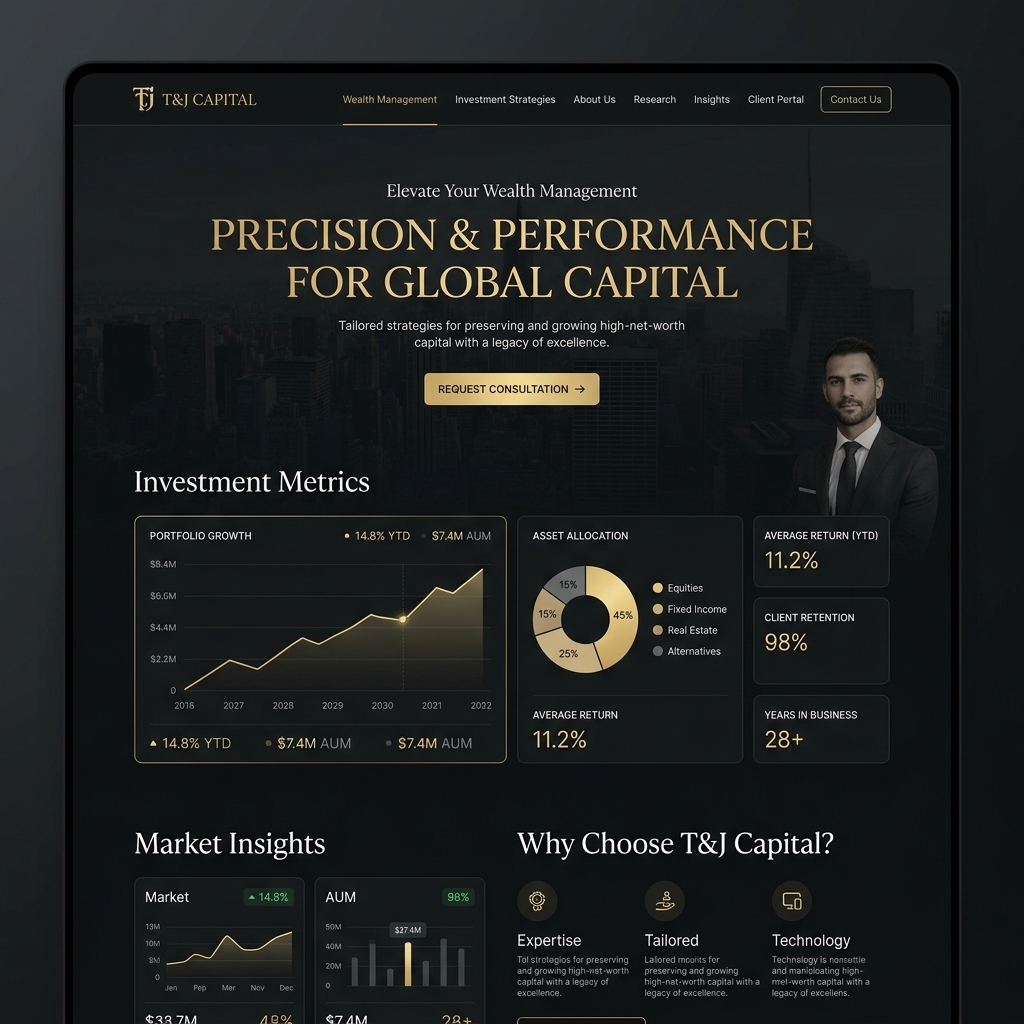
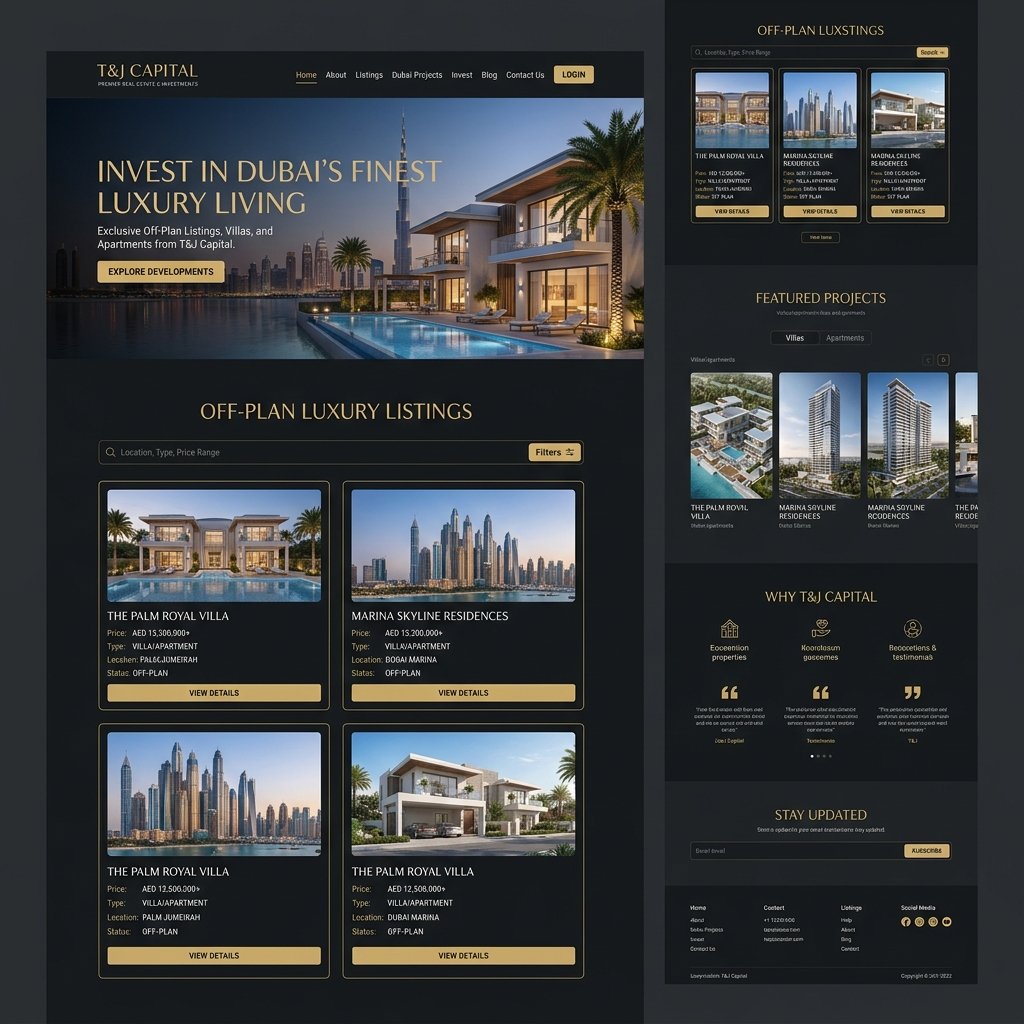
style: correct T&J Capital to REAL ESTATE and Venduras to TRAVEL with updated descriptions and mockups

diff --git a/src/components/Portfolio.tsx b/src/components/Portfolio.tsx
@@ -93,31 +93,31 @@ const featuredProjects: ProjectSpec[] = [
   {
     id: 16,
     title: 'T&J Capital',
-    category: 'WEBSITE',
-    description: 'A premium private equity and wealth management website presenting investment strategies and corporate governance.',
+    category: 'REAL ESTATE',
+    description: 'A luxury Dubai real estate portal showcasing premium off-plan off-market villas and apartments.',
     url: 'https://tandjcapital.com/',
     image: '/portfolio-16.png',
-    themeColor: 'linear-gradient(135deg, #0b1d12 0%, #153c24 100%)',
-    borderColor: 'rgba(34, 197, 94, 0.25)',
+    themeColor: 'linear-gradient(135deg, #0b1a2d 0%, #17375e 100%)',
+    borderColor: 'rgba(59, 130, 246, 0.25)',
     stats: [
-      { value: 'SEC', label: 'Security Grade A+' },
-      { value: '1.4s', label: 'Page Load Speed' },
-      { value: '100%', label: 'Compliance Audits Passed' },
+      { value: '1500+', label: 'Property Listings Synced' },
+      { value: '+65%', label: 'Inbound Qualified Leads' },
+      { value: '1.2s', label: 'Average Page Load Time' },
     ],
   },
   {
     id: 17,
     title: 'Venduras',
-    category: 'E-COMMERCE',
-    description: 'A modern conversion-optimized Shopify storefront with customized product discovery flows.',
+    category: 'TRAVEL',
+    description: 'A high-end smart homes villa and hotel stay booking engine integrated with live calendar sync.',
     url: 'https://venduras.com/',
     image: '/portfolio-17.png',
-    themeColor: 'linear-gradient(135deg, #1d1b0b 0%, #3e3a17 100%)',
-    borderColor: 'rgba(234, 179, 8, 0.25)',
+    themeColor: 'linear-gradient(135deg, #1b160d 0%, #3a2e1c 100%)',
+    borderColor: 'rgba(217, 134, 0, 0.25)',
     stats: [
-      { value: '+45%', label: 'Mobile Conversion Rate' },
-      { value: '30%', label: 'Repeat Customer Rate' },
-      { value: '2.1s', label: 'Reduced Loading Speed' },
+      { value: '+55%', label: 'Direct Bookings Lift' },
+      { value: '4.2x', label: 'ROI on Ad Campaigns' },
+      { value: '99.9%', label: 'Booking Calendar Uptime' },
     ],
   },
 ];

diff --git a/src/lib/portfolio-projects.ts b/src/lib/portfolio-projects.ts
@@ -147,19 +147,19 @@ export const portfolioProjects: PortfolioProject[] = [
   {
     id: 16,
     title: 'T&J Capital',
-    category: 'WEBSITE',
-    description: 'A premium private equity and wealth management website presenting investment strategies and corporate governance.',
+    category: 'REAL ESTATE',
+    description: 'A luxury Dubai real estate portal showcasing premium off-plan off-market villas and apartments.',
     url: 'https://tandjcapital.com/',
     image: '/portfolio-16.png',
-    alt: 'Sleek corporate wealth management website layout',
+    alt: 'Luxury Dubai real estate portal showcasing premium off-plan off-market properties',
   },
   {
     id: 17,
     title: 'Venduras',
-    category: 'E-COMMERCE',
-    description: 'A modern conversion-optimized Shopify storefront with customized product discovery flows.',
+    category: 'TRAVEL',
+    description: 'A high-end smart homes villa and hotel stay booking engine integrated with live calendar sync.',
     url: 'https://venduras.com/',
     image: '/portfolio-17.png',
-    alt: 'Modern e-commerce landing catalog layout',
+    alt: 'Premium hotel and vacation stay booking page visual',
   },
 ];
